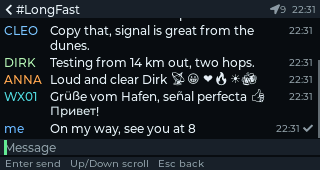
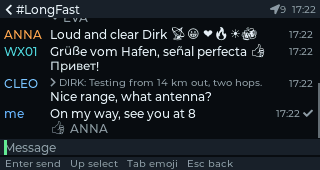
Mark a fixed frequency next to the modem name, refresh screenshots
- While a fixed frequency is set, the Modem row and the LoRa radio entry on
  the Setup page end in "fixed freq". A preset on a fixed frequency stays
  that preset, so its default channel keeps its name.
- An unset fixed frequency reads "automatic".
- Store screenshots regenerated for the new hints, scroll arrows, replies
  and reactions.
- Changelog for 0.2.0 rewritten.

diff --git a/src/ui/screens/setup.cpp b/src/ui/screens/setup.cpp
@@ -133,7 +133,7 @@ std::vector<Opt> modem_opts()
 {
     std::vector<Opt> opts;
     for (const PresetInfo& p : kPresets) {
-        opts.push_back({p.value, std::string(p.name) + (p.value == kPresets[0].value ? " (default)" : "")});
+        opts.push_back({p.value, std::string(p.name) + (p.value == kPresets[0].value ? "  (default)" : "")});
     }
     opts.push_back({kCustomModem, "Custom"});
     return opts;
@@ -251,6 +251,8 @@ std::unique_ptr<Screen> page_lora(App& app)
             cfg->use_preset   = true;
         },
         modem_opts(), "Must match the rest of the mesh"));
+    // A fixed frequency is set far down the page; say so where the modem is named.
+    f.back().note = [cfg]() { return std::string(cfg->override_frequency != 0 ? ", fixed freq" : ""); };
     f.push_back(MZ_INT("Hop limit", hop_limit, 1, 7, "hops", "Default 3"));
     f.push_back(MZ_BOOL("Transmit enabled", tx_enabled, ""));
     f.push_back(MZ_INT("Transmit power", tx_power, 0, 30, "dBm", "0 = region maximum"));
@@ -314,6 +316,7 @@ std::unique_ptr<Screen> page_lora(App& app)
             return std::string();
         },
         12, "Empty = automatic. Must be legal in your region"));
+    f.back().empty_text = "automatic";
     return make_editor(
         app, "LoRa radio", std::move(f),
         [&app, cfg, before]() {
@@ -1171,7 +1174,8 @@ public:
 
         header("Radio");
         entry("Region", region_name(mesh.config.lora.region), [a]() { a->push(make_region_picker(*a, false)); });
-        entry("LoRa radio", mesh.preset_name(), open(page_lora));
+        entry("LoRa radio", mesh.preset_name() + (mesh.config.lora.override_frequency != 0 ? ", fixed freq" : ""),
+              open(page_lora));
         int enabled = 0;
         for (int i = 0; i < kMaxChannels; ++i) enabled += mesh.channel_enabled(i) ? 1 : 0;
         entry("Channels", std::to_string(enabled) + " of 8", [a]() { a->push(make_channels(*a)); });

diff --git a/src/ui/screens/editor.cpp b/src/ui/screens/editor.cpp
@@ -146,13 +146,14 @@ public:
                     // Long option labels carry an explanation after two spaces.
                     const size_t cut = it.right.find("  ");
                     if (cut != std::string::npos) it.right = it.right.substr(0, cut);
+                    if (f.note) it.right += f.note();
                     it.has_right_color = true;
                     it.right_color     = ui::c_text();
                     break;
                 }
                 case Field::Text: {
                     const std::string v = f.get_text();
-                    it.right            = v.empty() ? "(empty)" : f.secret ? "********" : ui::clean(v, true);
+                    it.right            = v.empty() ? (f.empty_text.empty() ? "(empty)" : f.empty_text) : f.secret ? "********" : ui::clean(v, true);
                     if (it.right.size() > 26) it.right = utf8_cut(it.right, 24) + "..";
                     it.has_right_color = true;
                     it.right_color     = v.empty() ? ui::c_dim() : ui::c_text();

diff --git a/src/ui/screens/editor.h b/src/ui/screens/editor.h
@@ -33,6 +33,10 @@ struct Field {
     int64_t max    = 0;
     size_t max_len = 0;
     bool secret    = false;
+    // Optional: something to add after the value shown (Enum), and what an
+    // empty Text field reads as instead of "(empty)".
+    std::function<std::string()> note;
+    std::string empty_text;
     // Action rows normally leave the page clean; set when the action edits the working copy.
     bool marks_dirty = false;
 };

diff --git a/CHANGELOG.md b/CHANGELOG.md
@@ -1,59 +1,36 @@
 # Changelog
 
 ## 0.2.0
+What was meant to be a couple of bug fixes became an entire minor release with new features and abilities. All thanks to getting sick as a dog and having a day in bed.
 
-- Lists and text pages show a small arrow at the bottom, or at the top, while
-  there is more to scroll to in that direction.
-- Replies. Pick a message with Up, press Enter and choose Reply. Replies show
-  the message they answer on a line above them.
-- Emoji can be typed: Tab in a chat opens a grid to pick from. In a direct
-  chat Tab used to open the node's details; those are now under Enter on one
-  of its messages, "About the sender".
-- Message details: who, when, hops, signal, encryption, delivery status and
-  reactions.
-- A message that was not delivered can be sent again from the same menu.
-- Channel links and QR codes that carry radio settings can be applied as a
-  whole (channels and radio), not only added as channels.
-- Setup > Channels > Community setups, starting with SFNarrow (Spain). Marked
-  experimental: it is new and still being worked on.
-- Setup > LoRa radio is simpler. One Modem row names the preset in use, or
-  Custom. Bandwidth, spreading factor and coding rate always show what is in
-  use, and changing one of them makes the modem Custom. The separate "Use
-  modem preset" switch is gone.
-- A fixed frequency can be set there for custom modems. It has to lie in the
-  region's band, and it is cleared when the region changes or a preset is
-  chosen.
-- The modem list only offers presets the bundled radio daemon knows.
-  VeryLongSlow, LiteFast, LiteSlow, NarrowFast and NarrowSlow were listed
-  before but ran as LongFast.
-- Leaving the app takes holding Esc for 2 seconds, so a stray press no longer
-  closes it.
-- The app tells you when a newer release is out: a line at the top the first
-  time it is seen, and Setup > Updates from then on. It looks when it starts,
-  at most once an hour, and only asks GitHub for the latest release number.
-  Turn it off under Setup > Updates.
-- Tapbacks. In a chat, Up picks a message and Enter offers a set of emoji to
-  react with. Reactions are shown under the message they belong to, with who
-  sent them, instead of as messages of their own.
-- Fixed the Meshtastic phone app giving up with "Could not establish a stable
-  connection after repeated attempts". The app fetches the node list in a
-  second step, and the answer to it started with a packet that made the app
-  begin again.
-- Fixed the Meshtastic iOS app dropping the connection after about 24 seconds
-  on a quiet mesh. The app expects an answer to its heartbeat within 5
-  seconds, and heartbeats were not passed on to the radio. They are now, so
-  clients get the same answer as from any other node.
-- The older Cap LoRa-1262 without the IO expander is recognised by asking the
-  radio chip itself, and runs without the antenna switch step.
-- Direct messages fetch the other node's public key on their own. Opening a
-  chat with a node whose key is missing, or sending to it, asks that node for
-  its key, and asks again after 6 minutes while the chat stays open, then
-  less and less often.
-- The chat shows when it is still waiting for a key.
-- Channels can be added by scanning a shared QR code with the camera
-  (Setup > Channels > Scan QR code). The app lists what the code contains and
-  asks before adding it. The entry only appears on models with a camera, and
-  needs the system's `rpicam-vid`.
+**Added**
+
+- **Tapbacks:** React to messages with emojis.
+- **Replies:** Reply to specific messages.
+- **Emoji typing:** Click "tab" during a chat to open the selector.
+- **Message menu:** Click Up (Fn + F) to enter select messages and select one to see actions.
+- **Message details:** Sender, time, hops, signal, encryption, delivery status, reactions, etc.
+- **QR scanning:** Add channels by scanning a code with the camera. Compatible with most config generators, the official app, etc.
+- **Automatic key requests:** Direct messages ask the other node for its public key, backing off when unanswered.
+- **Radio settings from links:** A channel link or QR code that carries radio settings can be applied as a whole.
+- **Community setups (experimental):** Allows meshtastic communities to submit their
+custom radio/channel configurations to the app so you can have a one click setup experience.
+- **Update check:** Looks for a newer release at launch.
+- **Scroll arrows:** Lists and text pages show when there is more above or below.
+
+**Fixed**
+- **Older cap support:** Properly detects the older model of LoRa cap. (issue #2)
+- **Android app could not connect** Repeatedly connecting and failing during node retrieval (issue #3).
+- **iOS app dropped the connection** Would disconnect every so many seconds due to
+missing heartbeat (issue #1)
+
+**Changed**
+
+- **Exit:** hold Esc for 2 seconds on the main pages instead of a single press.
+- **LoRa page:** one Modem row replaces the "Use modem preset" switch; the modem values always show what is in use, and editing one makes the modem Custom.
+- **Tab in a direct chat** opens the emoji grid; the node's details moved to the message menu.
+- **Enter on a picked message** opens the menu, so a tapback is one more key press than when tapbacks were first built.
+- **Scanner memory:** the QR reader gives its work buffers back when you leave it.
 
 ## 0.1.0
 
